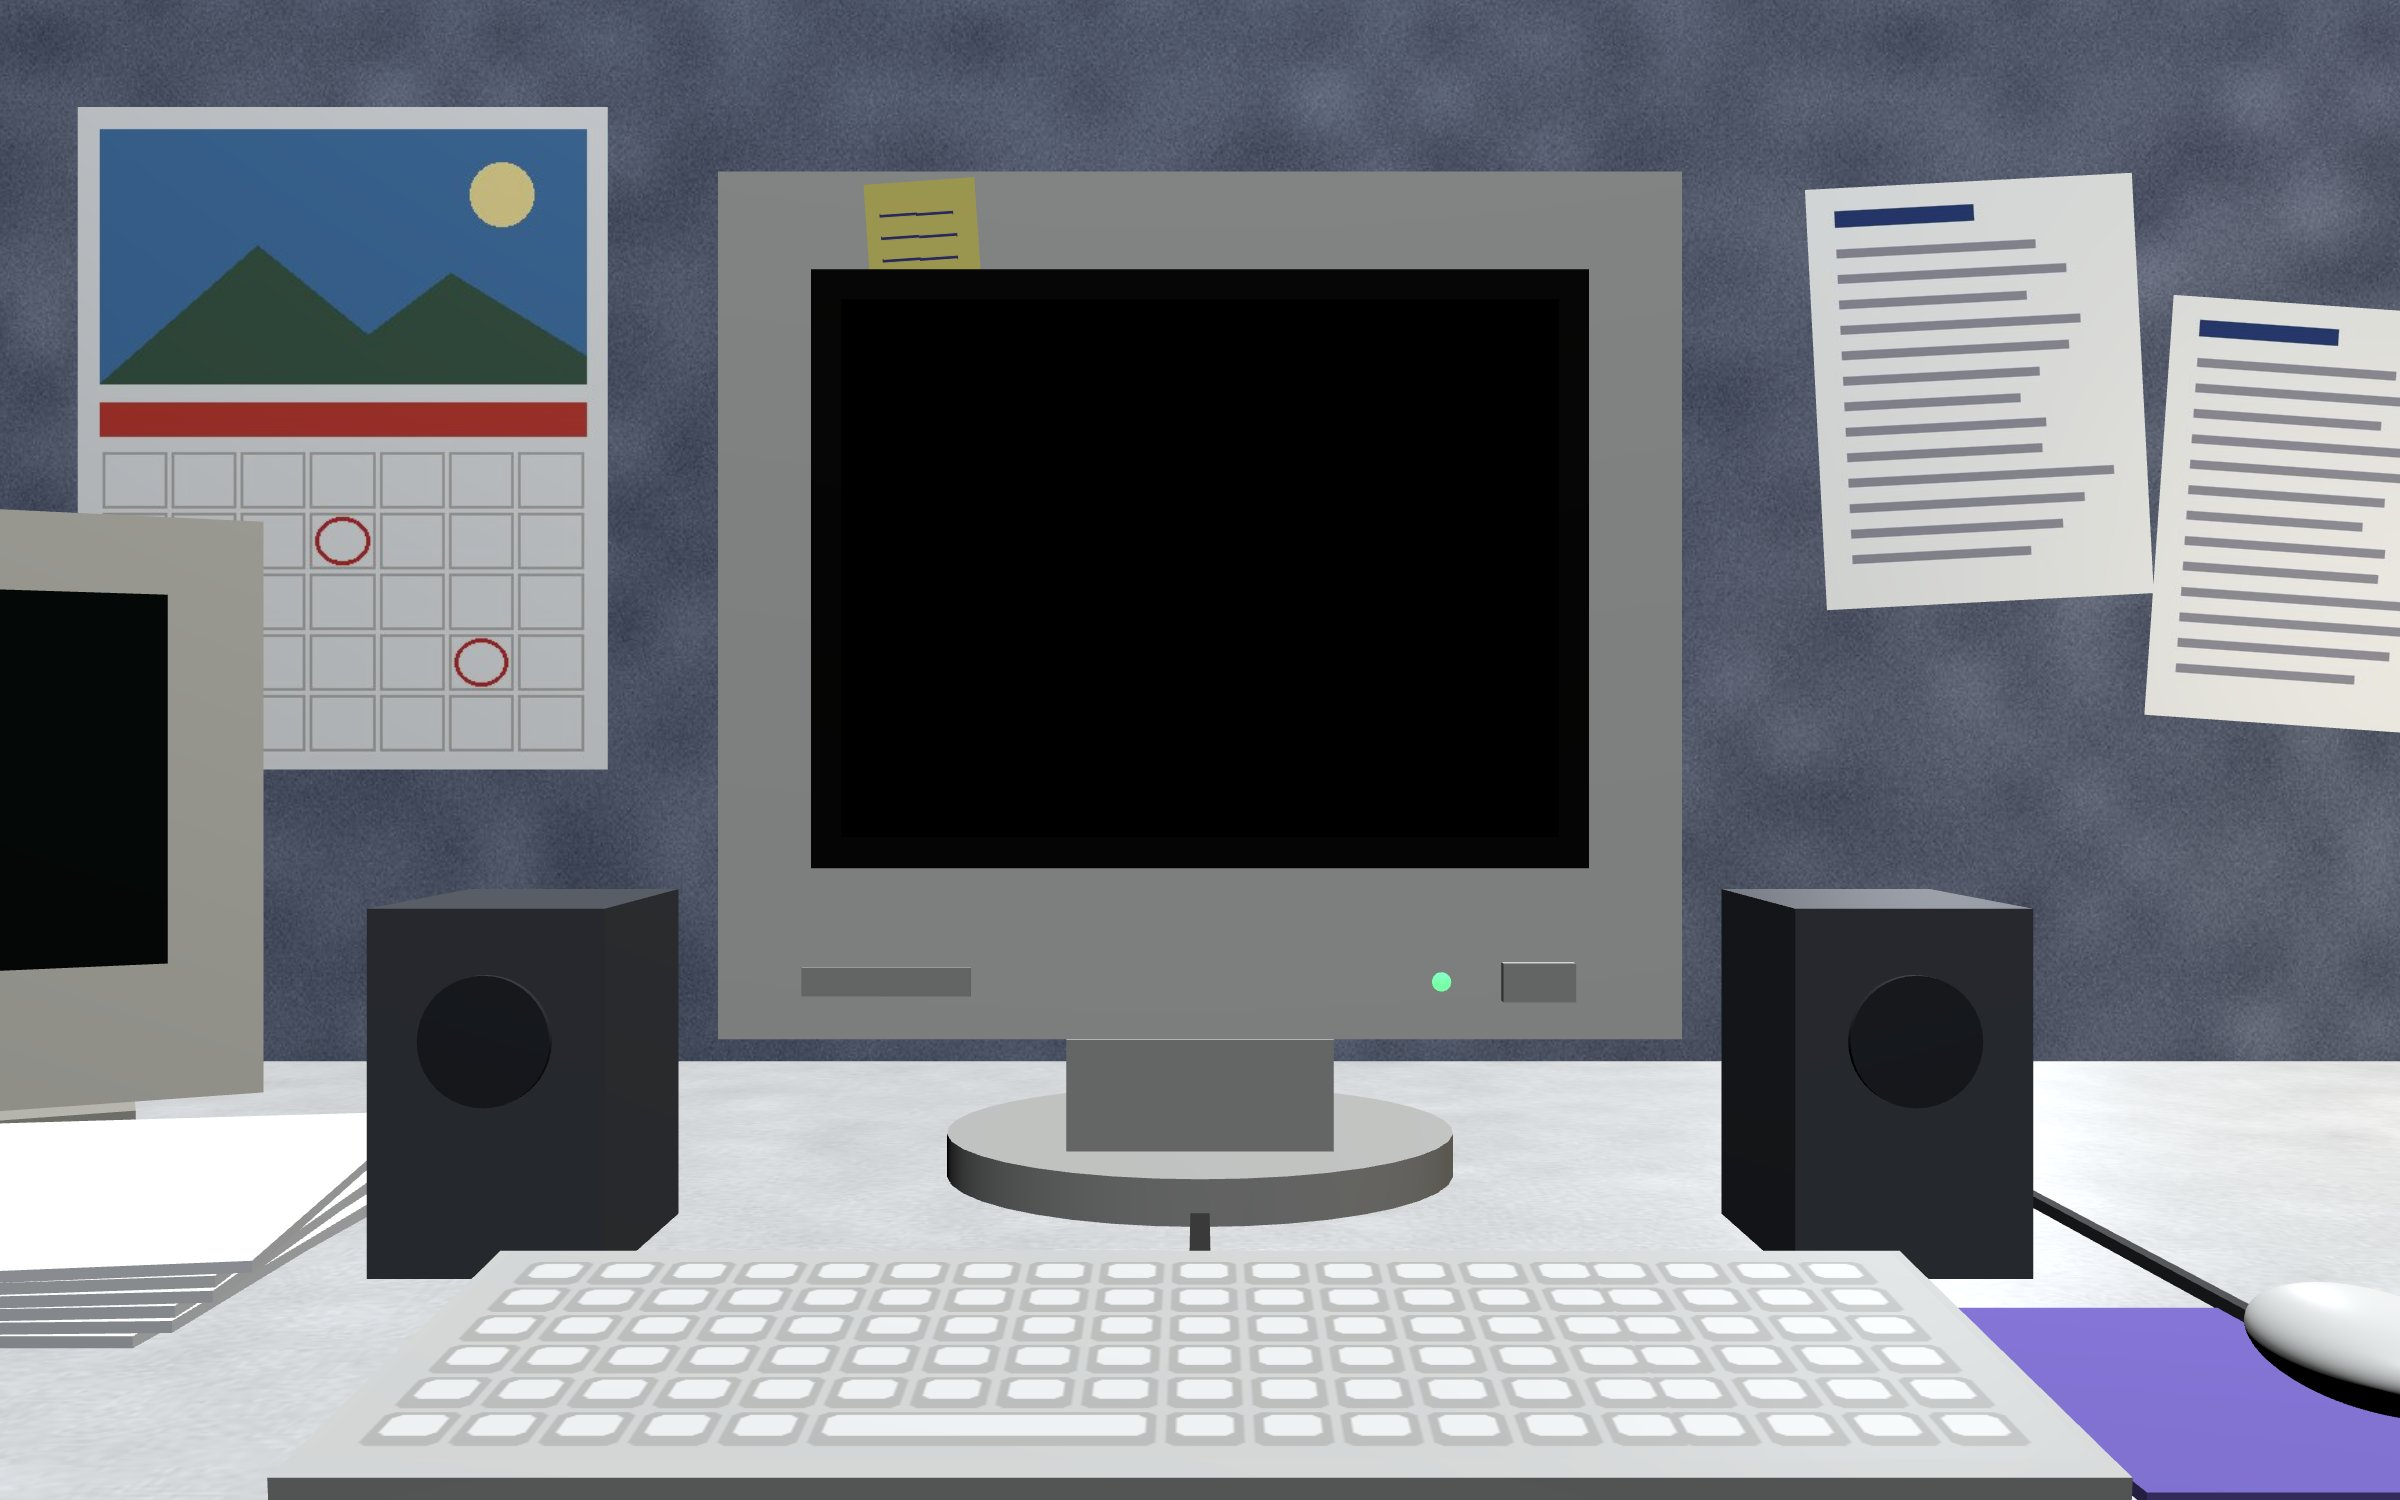
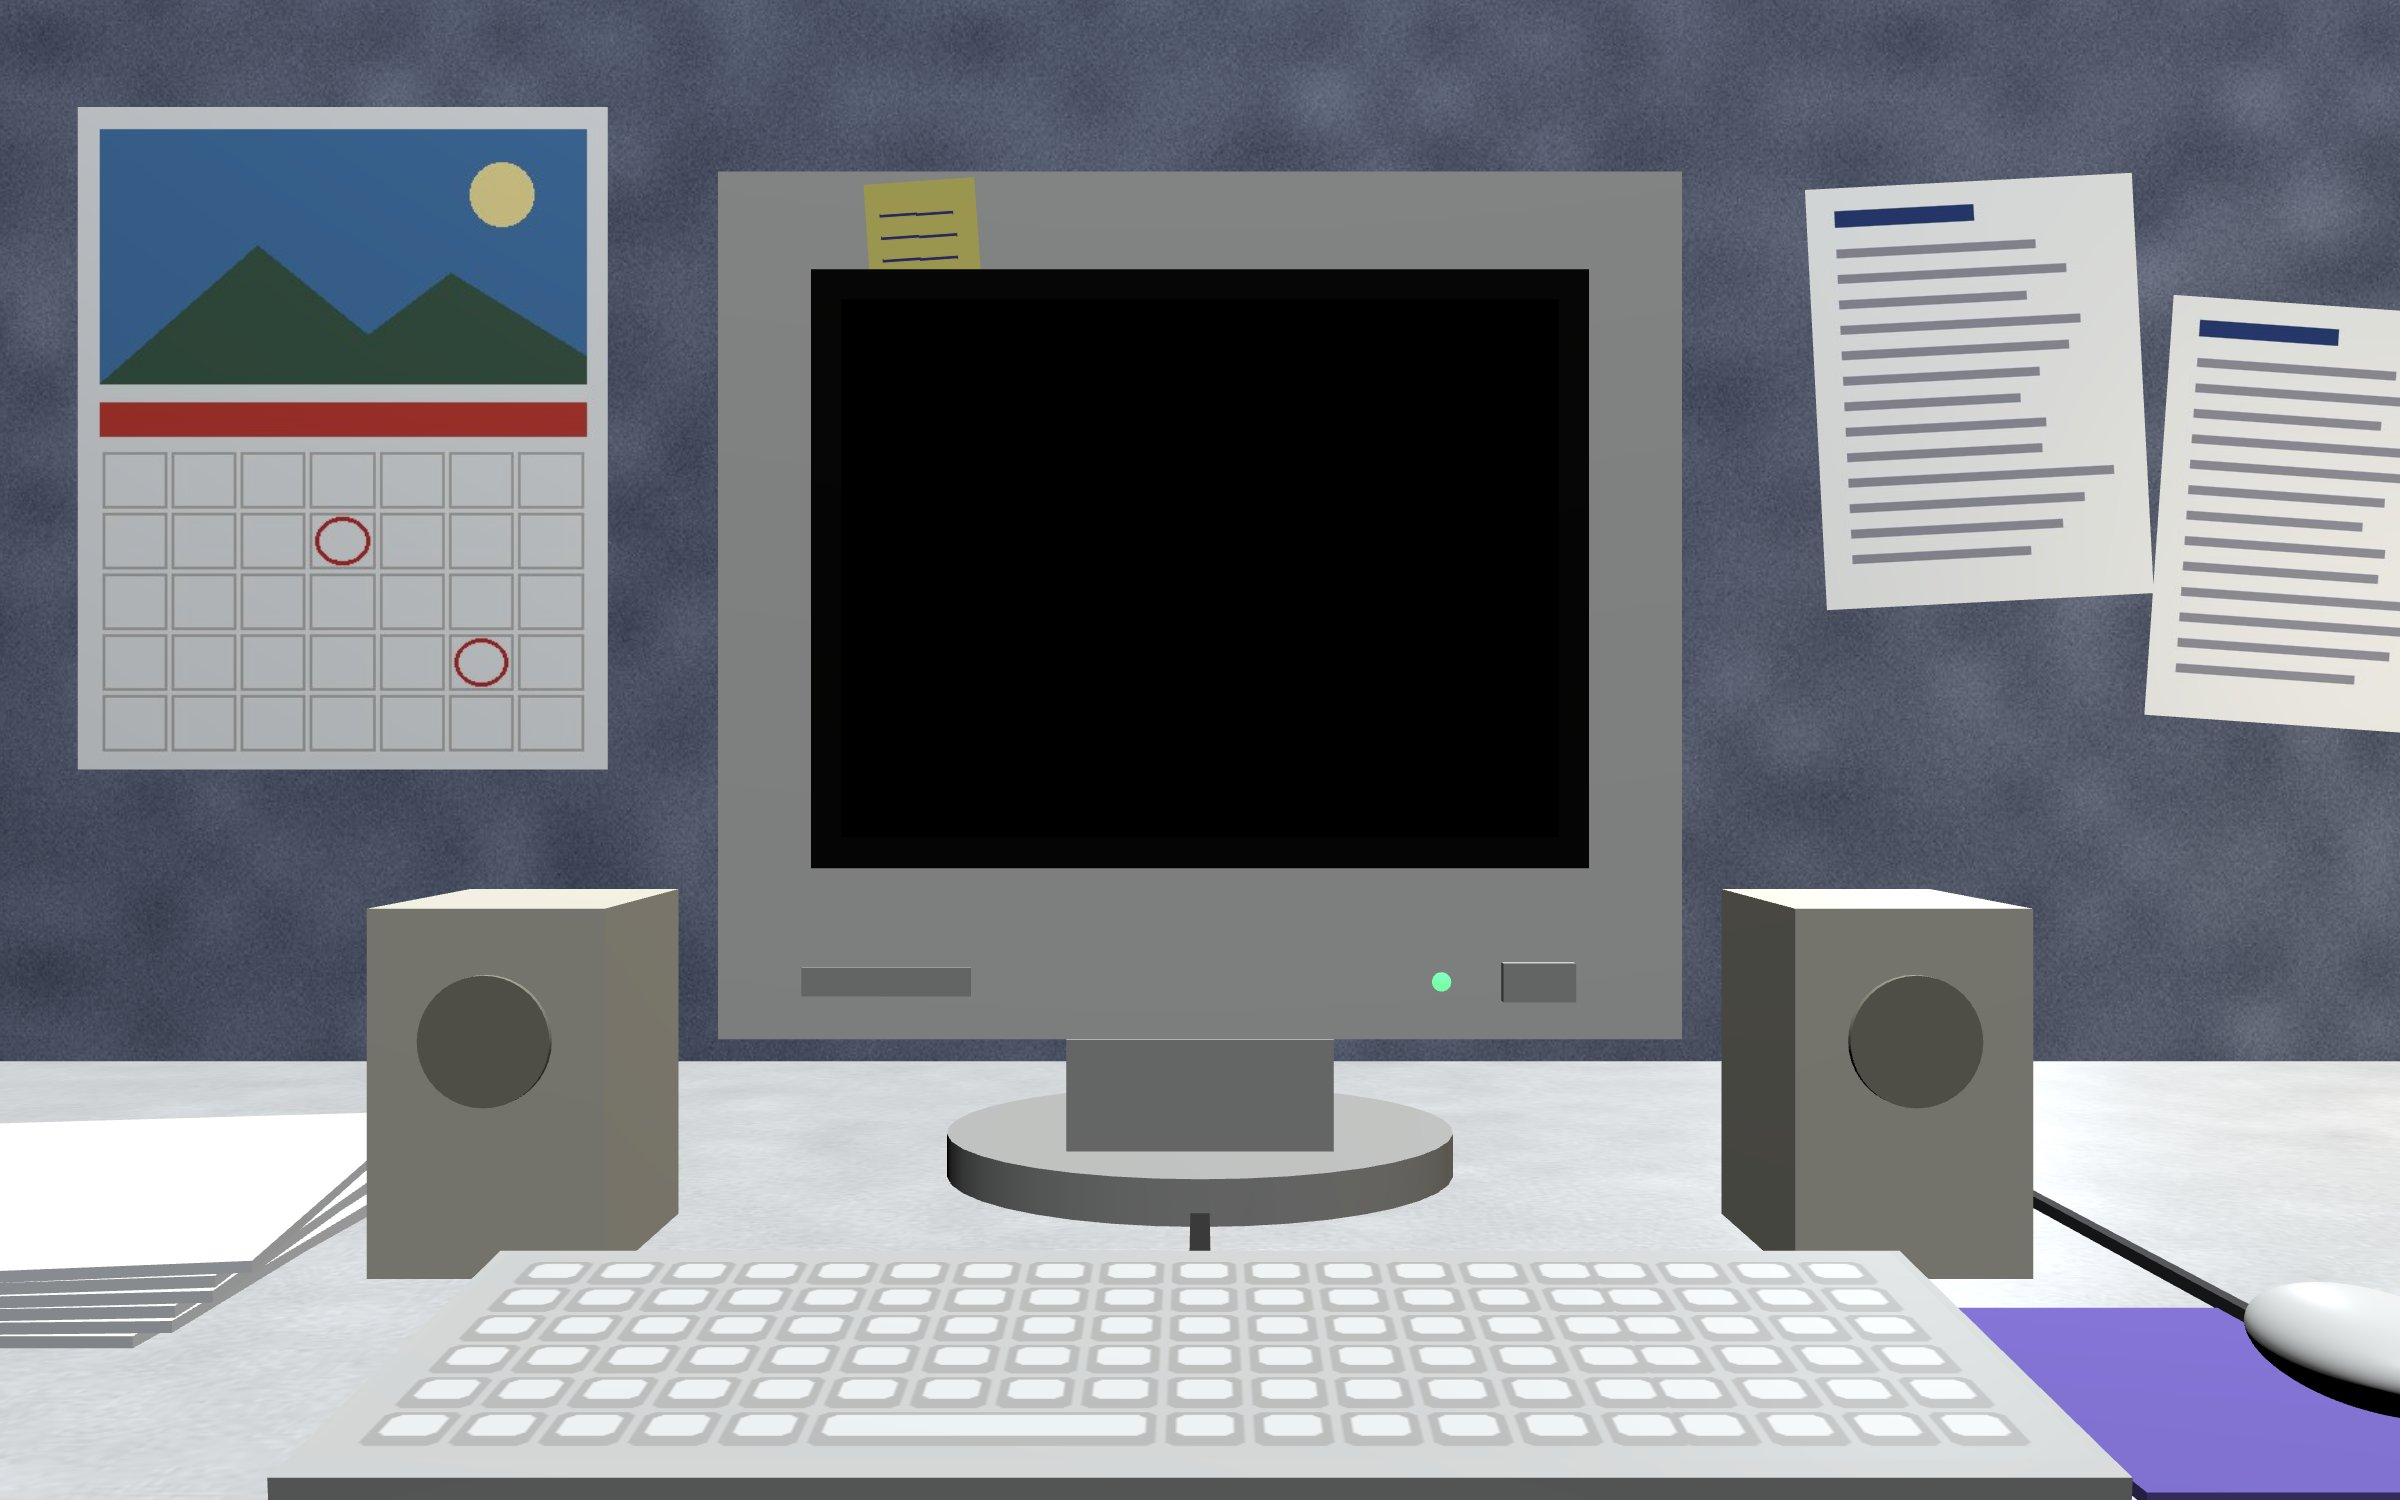
Office mode: 90s cubicle without the second monitor, with beige speakers (both apps)
Claude-Session: https://claude.ai/code/session_01Fr9pEh2u4LXn8RbFiZ4f9X

Changed region(s): [[0.0, 0.3373, 0.2812, 0.8587], [0.7188, 0.5827, 0.875, 0.8587]]

diff --git a/scripts/generate-office-scenes.py b/scripts/generate-office-scenes.py
@@ -392,18 +392,6 @@ def add_monitor(sc, mon, casing, casing_dark, sticky_notes=()):
                      shadows=False, group="sticky-notes")
 
 
-def add_old_monitor(sc, x, z, yaw, casing, casing_dark):
-    """A small, older monitor, switched off, turned towards the chair."""
-    a = math.radians(yaw)
-
-    def at(dx, dy, dz):   # local offset to world, turned by yaw about Y
-        return (x + dx * math.cos(a) + dz * math.sin(a), DESK_Y + dy, z - dx * math.sin(a) + dz * math.cos(a))
-    sc.box(at(0, 1, 0), (22, 2, 22), casing_dark, rotation=(0, yaw, 0), roughness=0.5)
-    sc.box(at(0, 17, 4), (34, 30, 8), casing, rotation=(0, yaw, 0), roughness=0.45)
-    sc.box(at(0, 17.5, -8), (29, 25, 18), casing, rotation=(0, yaw, 0), roughness=0.5)
-    sc.plane(at(0, 18.5, 8.05), 25, 19, "#101412", rotation=(0, yaw, 0), roughness=0.15)
-
-
 def add_keyboard(sc, base, tex):
     sc.box((0, DESK_Y + 1.4, -16), (46, 2.8, 17), base, rotation=(5, 0, 0), roughness=0.55)
     sc.plane((0, DESK_Y + 2.95, -16), 45, 15.8, rotation=(-85, 0, 0), texture=tex,
@@ -550,8 +538,7 @@ def room_90s(out, rng, mon):
 
     add_monitor(sc, mon, "#d8d6cc", "#a8a69e",
                 sticky_notes=[t_yellow, t_pink])
-    # An older monitor off to the side, a desk lamp and small speakers.
-    add_old_monitor(sc, -68, -64, 28, "#d0ccbc", "#a29e90")
+    # A desk lamp and small beige speakers.
     sc.cylinder((80, DESK_Y + 1, -66), 13, 2, "#1c1c1e", roughness=0.35)
     sc.cylinder((80, DESK_Y + 16, -66), 1.4, 30, "#1c1c1e", metalness=0.6, roughness=0.3)
     sc.sphere((80, DESK_Y + 31, -62), (14, 9, 14), "#1c1c1e", roughness=0.3)
@@ -559,8 +546,8 @@ def room_90s(out, rng, mon):
     sc.lights.append({"type": "point", "position": [80, DESK_Y + 24, -58], "color": "#fff0d8",
                       "intensity": 0.6, "range": 90})
     for x in (-mon.half_width - 7, mon.half_width + 7):
-        sc.box((x, DESK_Y + 7, -40), (9, 14, 11), "#4a4c50", roughness=0.5)
-        sc.cylinder((x, DESK_Y + 9, -34.4), 5, 0.4, "#2a2c30", rotation=(90, 0, 0), roughness=0.8)
+        sc.box((x, DESK_Y + 7, -40), (9, 14, 11), "#d2ccb8", roughness=0.5)
+        sc.cylinder((x, DESK_Y + 9, -34.4), 5, 0.4, "#8c8674", rotation=(90, 0, 0), roughness=0.8)
     add_keyboard(sc, "#bebcb4", t_keys)
 
     # Calendar, memos and a note pinned to the partitions.
